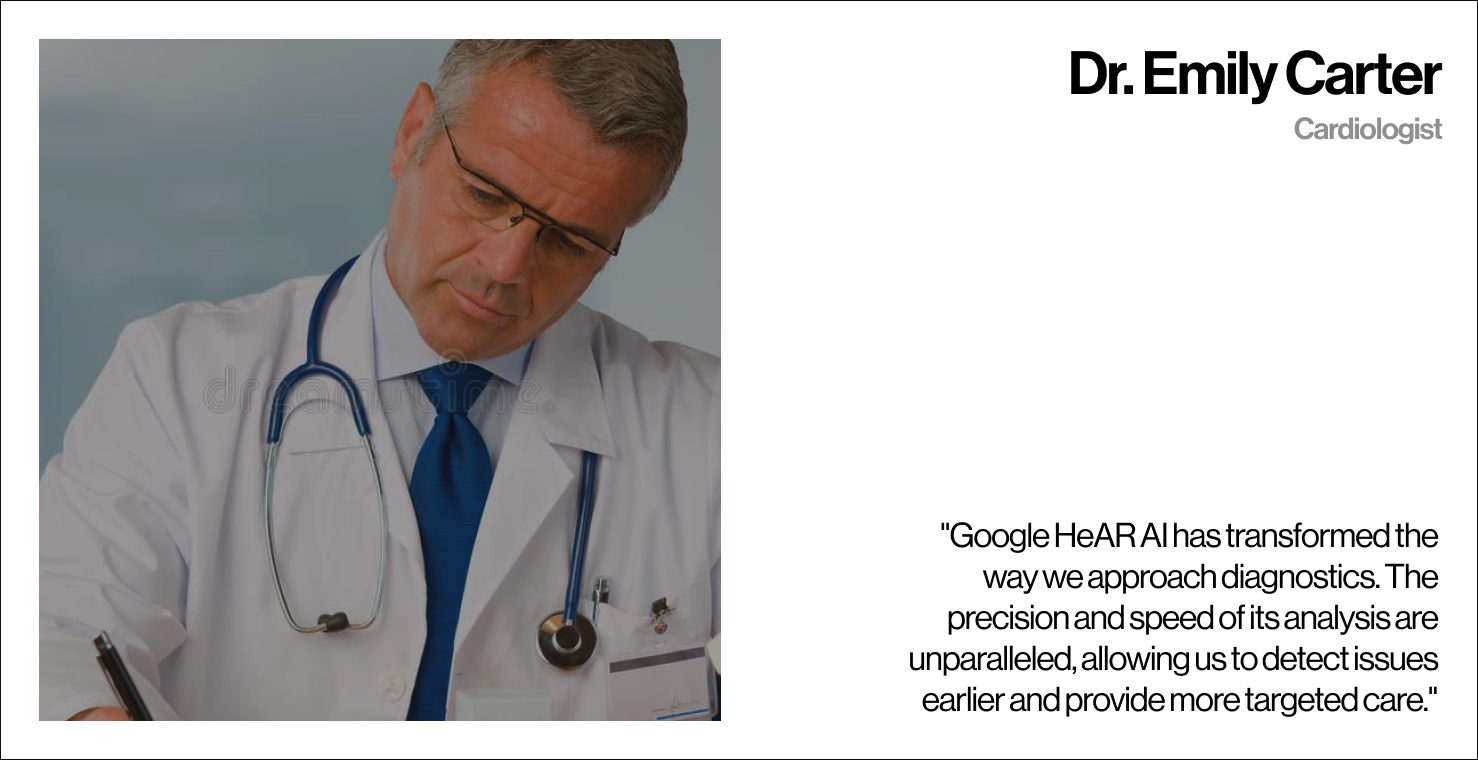
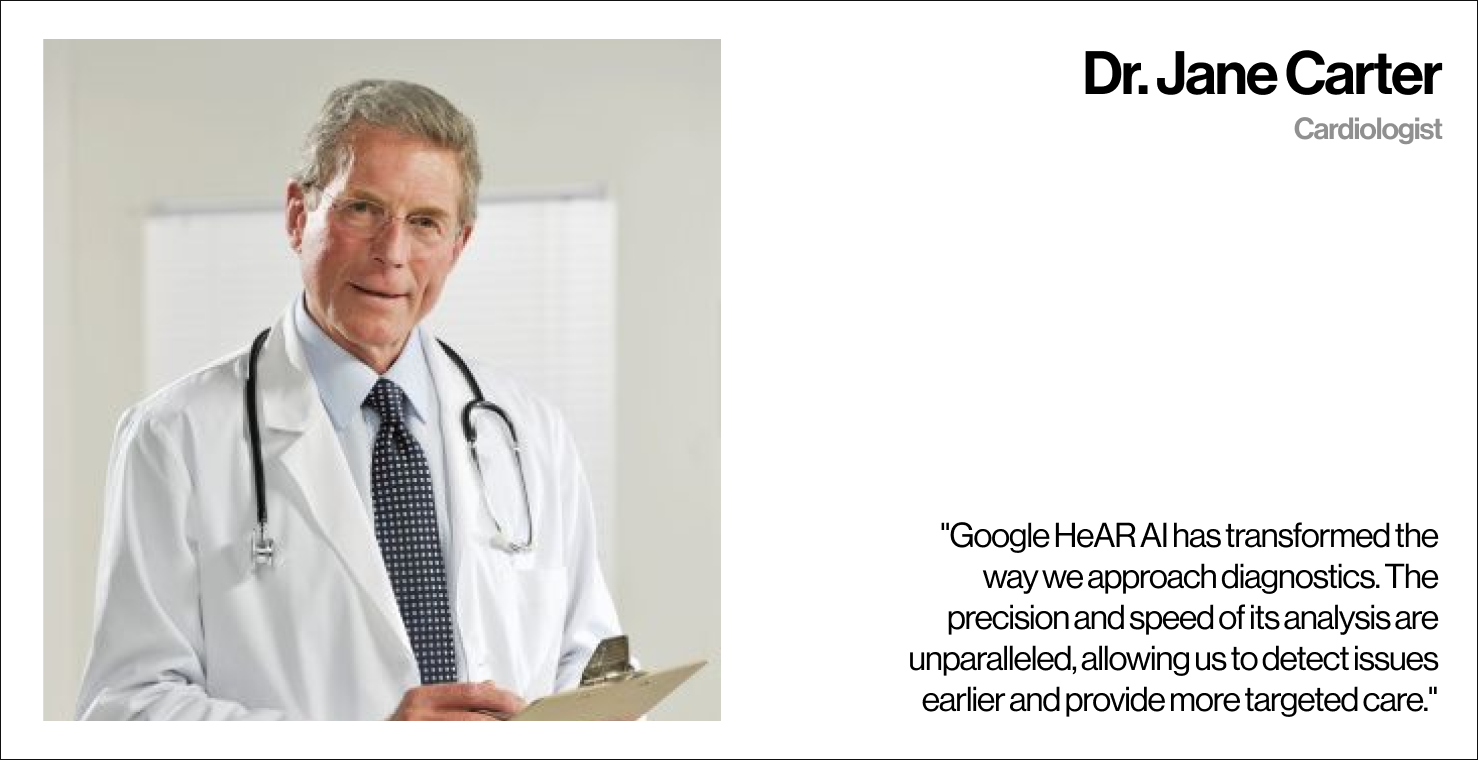
Changed testimonial

diff --git a/src/components/Testimonial.js b/src/components/Testimonial.js
@@ -3,6 +3,9 @@ import gsap from "gsap";
 import { ScrollTrigger } from "gsap/ScrollTrigger";
 import "../styles/Testimonial.css";
 import Card1 from "../assets/Testi/card1.png";
+import Card2 from "../assets/Testi/card2.png";
+import Card3 from "../assets/Testi/card3.png";
+import Card4 from "../assets/Testi/card4.png";
 import line from "../assets/Testi/line.png";
 gsap.registerPlugin(ScrollTrigger);
 
@@ -10,7 +13,7 @@ const Testimonial = () => {
   const containerRef = useRef(null);
   const sectionsRef = useRef([]);
 
-  const images = [Card1, Card1, Card1, Card1];
+  const images = [Card1, Card2, Card3, Card4];
 
   useEffect(() => {
     const sections = gsap.utils.toArray(sectionsRef.current);
